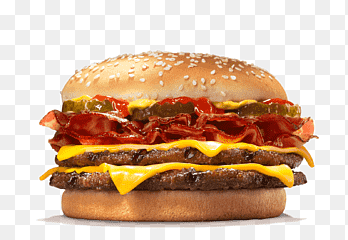
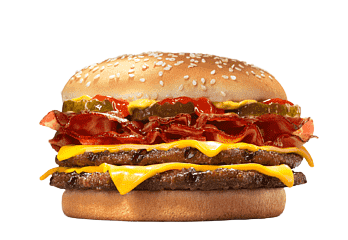
apaguei e coloquei novas imgs
as imgs anteriores não eram png

diff --git a/index.html b/index.html
@@ -90,7 +90,7 @@
             </div>
             
             <div id="banner">
-                <img src="" alt="">
+                <img src="./banner.png" alt="">
             </div>
 
         </section>
